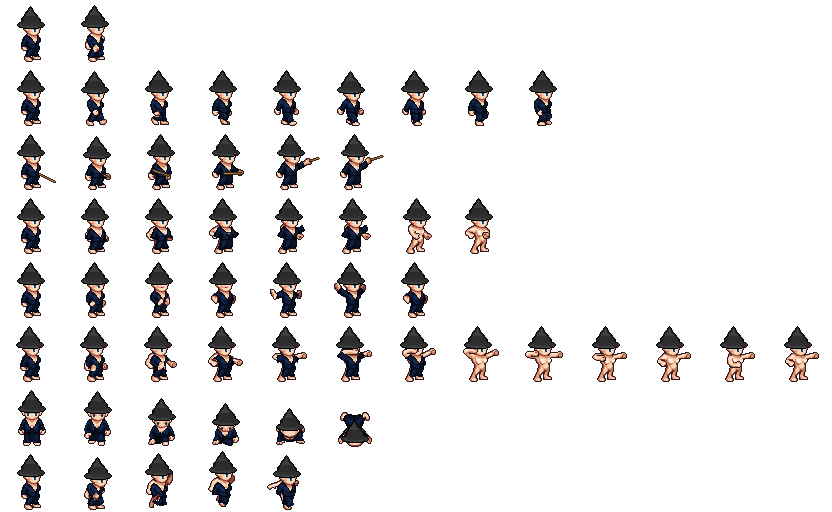
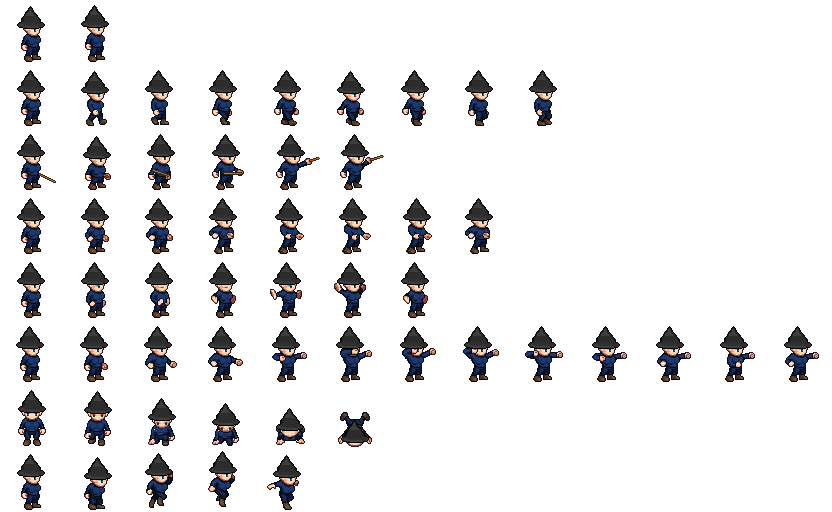
Mage outfit: replace robe (only walk/slash/spellcast/hurt) with LPC longsleeve top, pants, boots recoloured to robe blues so every frame is clothed; build_lpc --only and per-layer recolour; credits

diff --git a/game/tools/build_lpc.py b/game/tools/build_lpc.py
@@ -69,9 +69,14 @@ CHARACTERS = {
         ("weapon/ranged/bow/normal/universal/background/{anim}/light.png", -1),
         ("weapon/ranged/bow/normal/universal/foreground/{anim}/light.png", 140),
     ],
+    # Session 7: the robe (torso/clothes/robe) only has walk, slash, spellcast and hurt, so idle, thrust,
+    # shoot and jump fell back to other poses and the body showed through. Long-sleeve top, pants and
+    # boots have every animation the game uses; they are recoloured to the old robe's blues.
     "mage": [
         ("body/bodies/female/{anim}.png", 10), ("head/heads/human/female/{anim}.png", 100),
-        ("torso/clothes/robe/female/{anim}/blue.png", 35), ("hat/magic/wizard/base/adult/{anim}/base_black.png", 130),
+        ("feet/boots/basic/thin/{anim}.png", 15, "boot"), ("legs/pants/thin/{anim}.png", 20, "navy"),
+        ("torso/clothes/longsleeve/longsleeve/female/{anim}.png", 35, "robe"),
+        ("hat/magic/wizard/base/adult/{anim}/base_black.png", 130),
         ("weapon/magic/wand/male/{anim}/wand.png", 140),
     ],
     "rat": [
@@ -107,6 +112,34 @@ CHARACTERS = {
         ("weapon/sword/longsword/universal_behind/{anim}/longsword.png", 9), ("weapon/sword/longsword/{anim}/longsword.png", 140),
     ],
 }
+
+
+# Recolour ramps (dark to light) for uncoloured base sheets. Pixels darker than OUTLINE_LUM keep a dark
+# outline; the rest map by brightness onto the ramp.
+RAMPS = {
+    "robe": [(8, 17, 35), (12, 25, 50), (16, 32, 65), (22, 44, 89), (32, 58, 112)],
+    "navy": [(7, 14, 30), (12, 24, 50), (18, 34, 68), (26, 46, 88)],
+    "boot": [(40, 26, 20), (62, 42, 30), (88, 60, 40), (116, 82, 54)],
+}
+OUTLINE_LUM = 60
+
+
+def recolor(img, ramp_name):
+    ramp = RAMPS[ramp_name]
+    px = img.load()
+    for y in range(img.size[1]):
+        for x in range(img.size[0]):
+            r, g, b, a = px[x, y]
+            if a == 0:
+                continue
+            lum = 0.299 * r + 0.587 * g + 0.114 * b
+            if lum < OUTLINE_LUM:
+                px[x, y] = (6, 10, 20, a)
+                continue
+            t = min(0.999, (lum - OUTLINE_LUM) / (255 - OUTLINE_LUM))
+            c = ramp[int(t * len(ramp))]
+            px[x, y] = (c[0], c[1], c[2], a)
+    return img
 
 
 def item_folder(pattern):
@@ -176,6 +209,8 @@ def compose(lpc, key, layers, zmap, report, weapons_only=False):
     ordered = sorted(layers, key=lambda L: L[1])
     if weapons_only:
         ordered = [L for L in ordered if "/weapon/" in f"/{L[0]}"]
+    tints = {L[0]: L[2] for L in layers if len(L) > 2}
+    ordered = [(L[0], L[1]) for L in ordered]
     for r, anim in enumerate(ANIMS):
         row = 0 if anim == "hurt" else RIGHT_ROW
         n = COUNT[anim]
@@ -197,6 +232,8 @@ def compose(lpc, key, layers, zmap, report, weapons_only=False):
             if layer_frames is None:
                 report.append(f"{key}: {folder} has no {anim}")
                 continue
+            if folder in tints:
+                layer_frames = [recolor(fr, tints[folder]) for fr in layer_frames]
             if frames is None:
                 frames = [Image.new("RGBA", (BIG, BIG), (0, 0, 0, 0)) for _ in layer_frames]
             if len(layer_frames) > len(frames):
@@ -246,19 +283,49 @@ def main():
     if len(sys.argv) < 2:
         raise SystemExit("usage: build_lpc.py <path to LPC generator checkout>")
     lpc = pathlib.Path(sys.argv[1])
+    # --only key1,key2 rebuilds just those characters and replaces only their CREDITS.txt sections.
+    only = None
+    if "--only" in sys.argv:
+        only = sys.argv[sys.argv.index("--only") + 1].split(",")
     defs = lpc / "sheet_definitions"
     zfound = scan_zpos(defs)
     zmap = {k: (v[0], v[1]) for k, v in zfound.items()}
     report = []
     all_credit_lines = []
     for key, layers in CHARACTERS.items():
+        if only and key not in only:
+            continue
         compose(lpc, key, layers, zmap, report)
         if key in BIG_KEYS:
             compose(lpc, key, layers, zmap, report, weapons_only=True)
-        folders = [f for f, _ in layers]
+        folders = [L[0] for L in layers]
         folders += [str(pathlib.Path(p).parent) for f in list(folders) if f in PATH_OVERRIDE for p in PATH_OVERRIDE[f].values()]
         all_credit_lines += [f"[{key}]"] + credits_for(defs, {k: v[1] for k, v in zfound.items()}, folders)
         print("wrote", OUT / f"{key}.png")
+    if only:
+        # Keep the other characters' sections; replace the rebuilt ones.
+        old = (OUT / "CREDITS.txt").read_text(encoding="utf-8").split("\n")
+        sections, cur = {}, None
+        order = []
+        for line in old:
+            if line.startswith("[") and line.endswith("]"):
+                cur = line[1:-1]
+                order.append(cur)
+                sections[cur] = []
+            elif cur:
+                sections[cur].append(line)
+        cur = None
+        for line in all_credit_lines:
+            if line.startswith("[") and line.endswith("]"):
+                cur = line[1:-1]
+                if cur not in sections:
+                    order.append(cur)
+                sections[cur] = []
+            else:
+                sections[cur].append(line)
+        all_credit_lines = []
+        for k in order:
+            all_credit_lines += [f"[{k}]"] + sections[k]
     (OUT / "CREDITS.txt").write_text("\n".join(all_credit_lines) + "\n", encoding="utf-8")
     print("wrote", OUT / "CREDITS.txt")
     if report:
